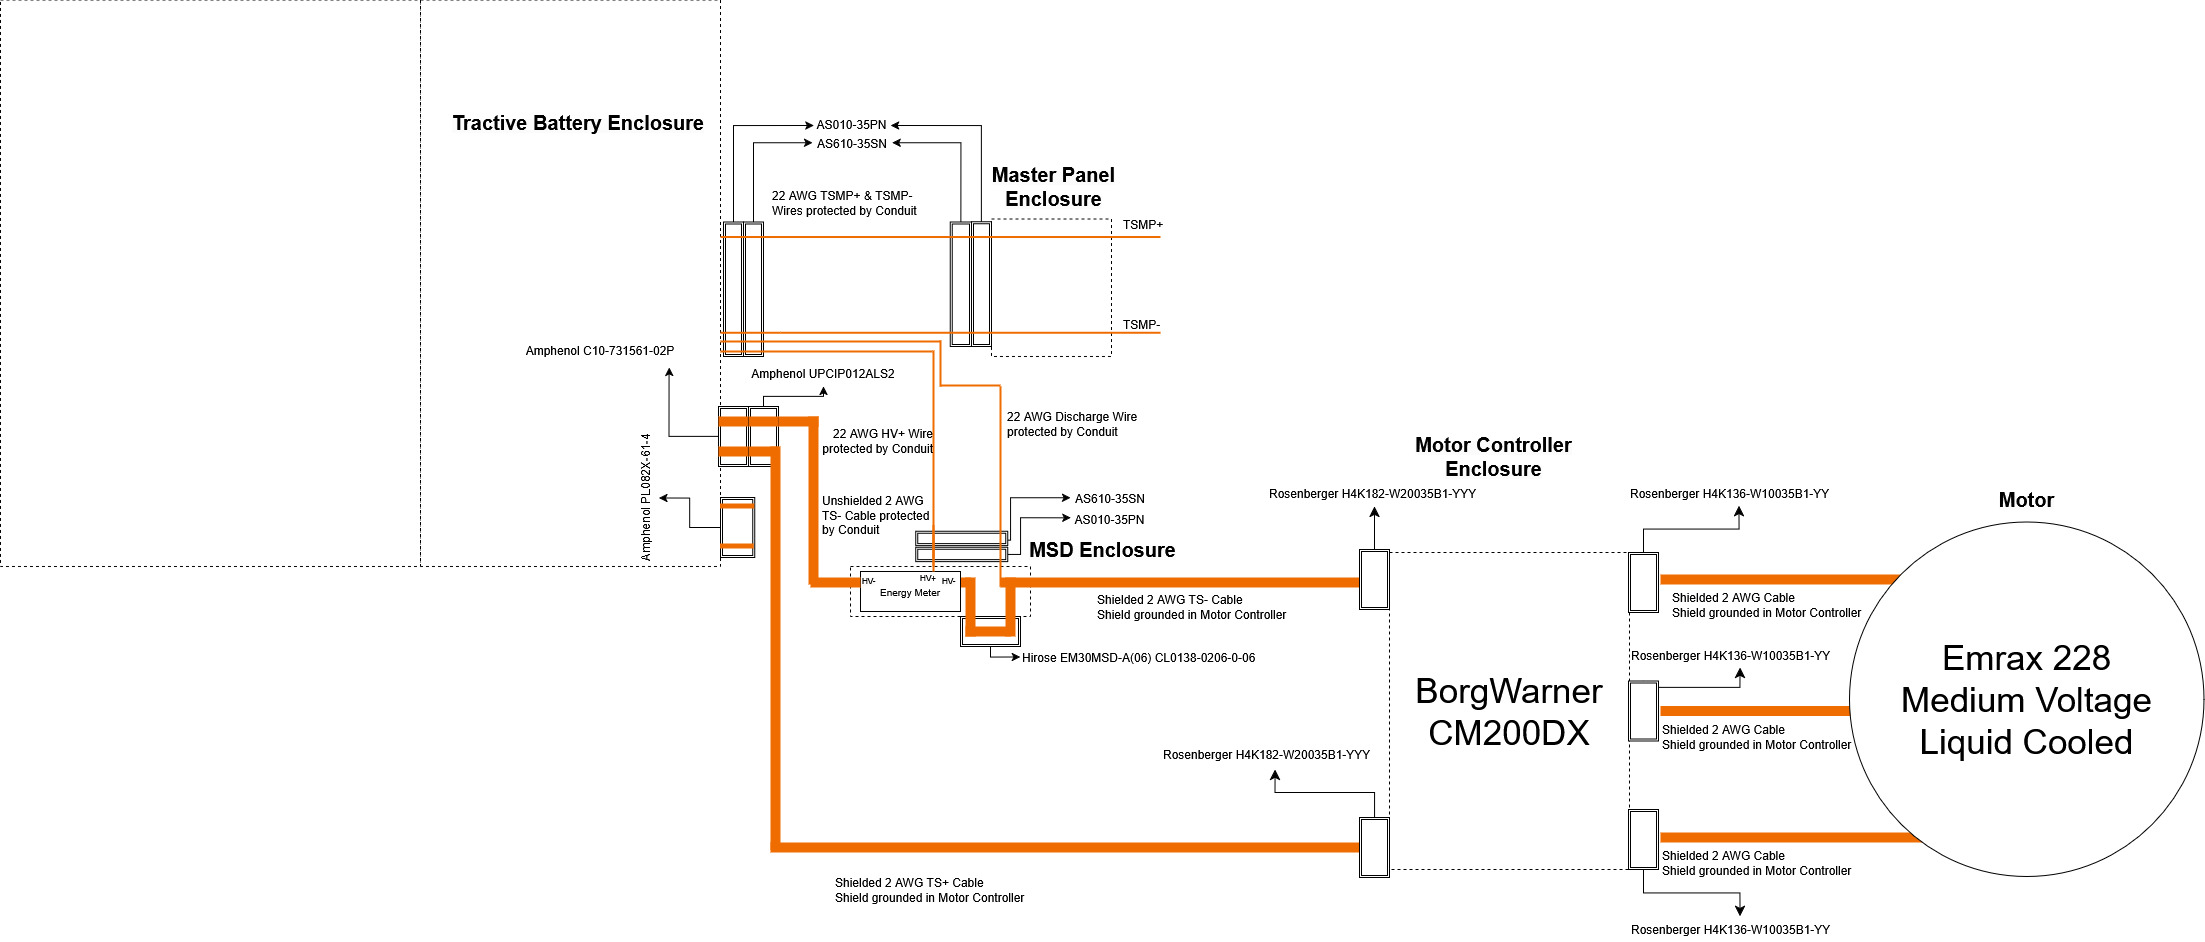
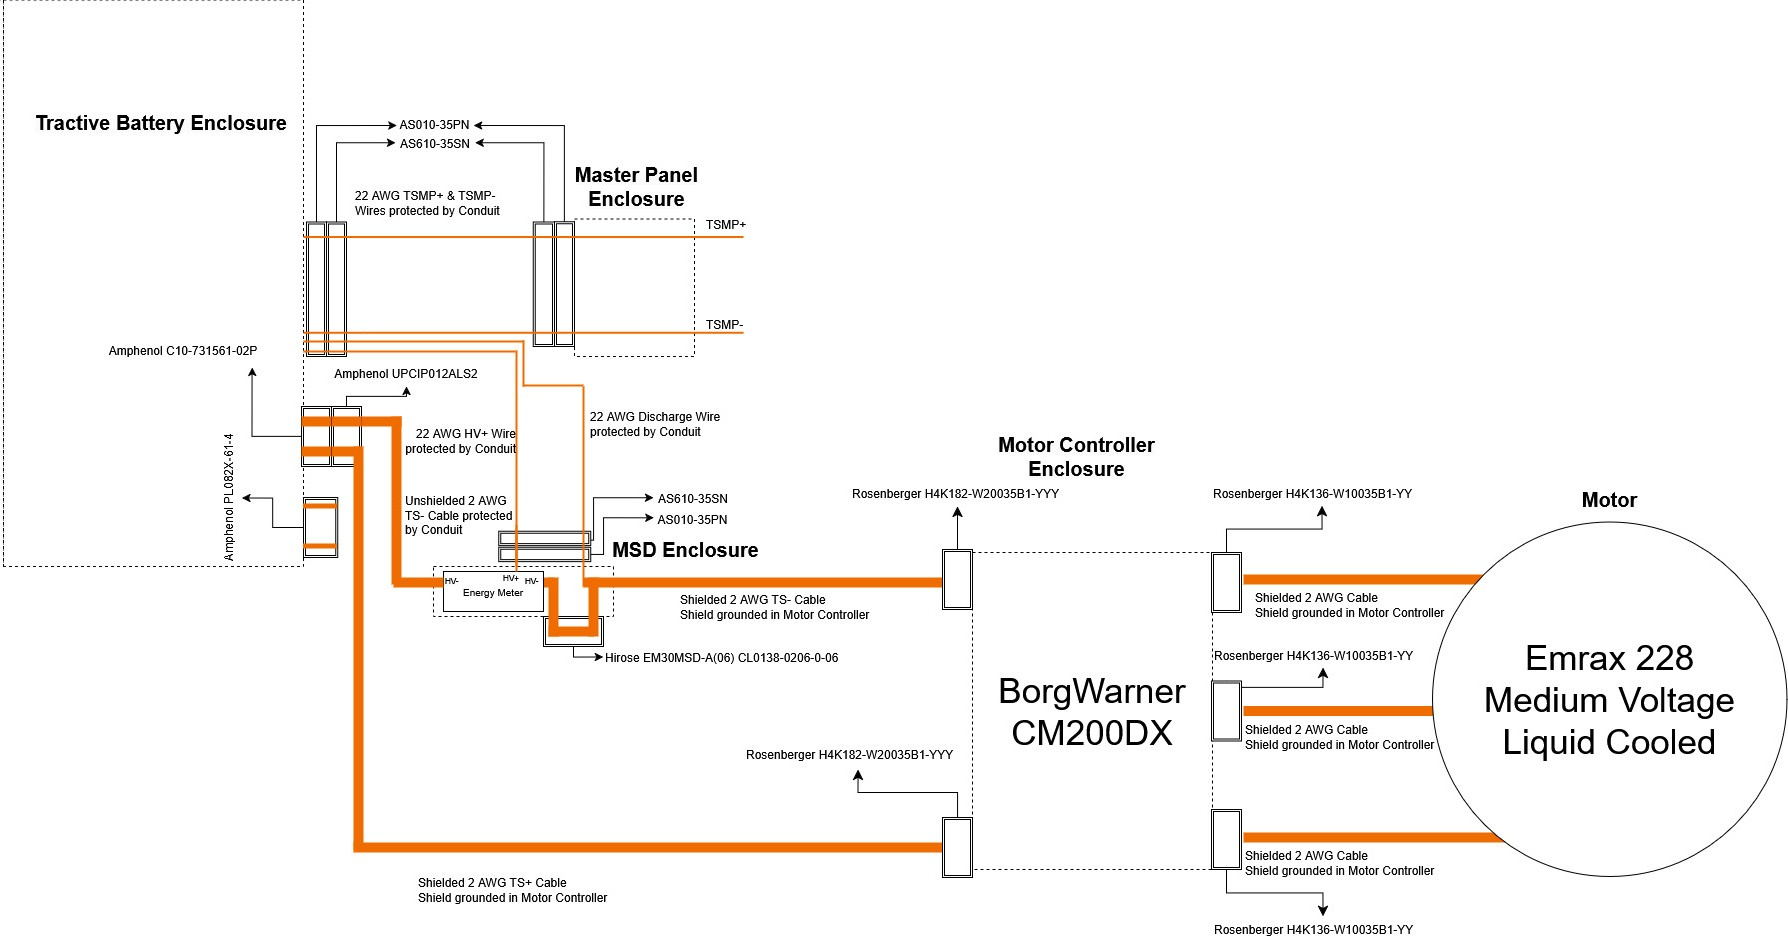
Completed 'Context of Problem'

diff --git a/objective-and-scope.md b/objective-and-scope.md
@@ -13,12 +13,12 @@ To achieve the team goal, High Voltage (HV) department's goal is as following:
 
 The testbed for CM200DX called, <i>R25Evo</i>, as modifications have been made to R25E to integrate CM200DX into R25E powertrain architecture.  
 
-Detailed explanation of changing motor controller from BAMOCAR D3 400-400 to CM200DX will be explained in the next section, <i>Context of Problem</i>.
+Detailed explanation of changing motor controller from <b>BAMOCAR D3 400-400</b> to <b>CM200DX</b> will be explained in the next section, <i>Context of Problem</i>.
 </p>
 
 ## Timeline
 <p style='text-align: justify'>
-Introducing a new motor controller to an existing HV architecture is a tremendous challenge, which requires thorough planning and execution months before R26E design phase.
+Introducing a new motor controller to an existing HV architecture is a tremendous technical challenge, which requires thorough planning and execution months before R26E design phase.
 </p>  
 
 <center><img src='./Figures/Timeline.png'></center>  
@@ -26,17 +26,16 @@ Introducing a new motor controller to an existing HV architecture is a tremendou
 
 ---
 
-<p style='text-align: justify'>
-For HV System Design and Optimization, emphasis is on the following tasks:</p>
+For HV System Design and Optimization, emphasis is on the following tasks:
 1. Finalise EE shelf, PCBs for R25Evo & R26E, wires for R25Evo
 2. R25Evo testbench
 3. R25Evo test run  
 
 ### Finalise EE shelf, PCBs for R25Evo & R26E, wires for R25Evo
 <p style='text-align: justify'>
-Changes were identified for R25E powertrain architecture to accommodate CM200DX and to ensure 2026 season rule compliancy. Based on the changes identified, new PCBs need to be designed, prototyped and tested.  
+Changes were identified for R25E powertrain architecture to accommodate <b>CM200DX</b> and to ensure 2026 season rule compliancy. Based on the changes identified, new PCBs need to be designed, prototyped and tested.  
 
-No changes were required for HV PCBs prior to R25Evo test run as they were CM200DX compatible and 2026 season rule compliant.
+No changes were required for HV PCBs prior to R25Evo test run as they were <b>CM200DX</b> compatible and 2026 season rule compliant.
 </p>
 
 ### R25Evo testbench
@@ -50,15 +49,15 @@ R25Evo testbench was designed to validate compatibility and functionality of exi
 ---
 
 <p style='text-align: justify'>
-The testbench was set up as shown in _Figure 3_, which represents the entire powertrain architecture in R25E.  
+The testbench was set up as shown in <i>Figure 3</i>, which represents the entire powertrain architecture in R25E.</p>  
 
-Using the testbench, following HV functionalities of R25Evo were be tested:</p>
+Using the testbench, following HV functionalities of R25Evo were be tested:
 - Precharge Sequence
 - Closing TS Circuit
 - Discharge Sequence
 
 <p style='text-align: justify'>
-HV PCBs involved in the above functionalities were installed in Tractive Battery enclosure as shown in _Figure 4_ below.
+HV PCBs responsible for the above functionalities were installed in Tractive Battery enclosure as shown in <i>Figure 4</i> below.
 </p>  
 
 <center><img src='./Figures/R25E Tractive Battery Internals.jpg'></center>  
@@ -67,12 +66,12 @@ HV PCBs involved in the above functionalities were installed in Tractive Battery
 ---
 
 <p style='text-align: justify'>
-HV PCBs involved are: Precharge-Discharge PCB (blue), Tractive Battery PDM PCB (orange) and HV Distribution PCB (green), as shown in _Figure 4_.
+HV PCBs are: Precharge-Discharge PCB (blue), Tractive Battery PDM PCB (orange) and HV Distribution PCB (green), as shown in <i>Figure 4</i>.
 </p>
 
 ### R25Evo test run
 <p style='text-align: justify'>
-After validating powertrain functionalities with CM200DX on the testbench, test runs were conducted to determine whether HV system functions as designed when R25Evo is running with CM200DX and to finalise HV system design for R26E based on results gathered from the test runs.
+After validating powertrain functionalities with <b>CM200DX</b> on the testbench, test runs were conducted to determine whether HV system functions as designed when R25Evo is running with <b>CM200DX</b> and to finalise HV system design for R26E based on results gathered from the test runs.
 </p>
 
 ## Scope

diff --git a/context-of-problem.md b/context-of-problem.md
@@ -1,16 +1,52 @@
 # Context of Problem
 
-Based on R25E's performance in Formula SAE EV 2025, the team identified that motor controller (BAMOCAR D3 400-400) is performance limited.
+<p style='text-align: justify'>
+Based on R25E's performance in Formula SAE EV 2025, the team identified that motor controller (<b>BAMOCAR D3 400-400</b>) is performance limited.
+</p>
 
-## Current Limited
-The motor the team is using, EMRAX 228 MV, is rated for a maximum output of 340A, while BAMOCAR is rated for a maximum output of 220A only.
+## Overview of Tractive System
+<center><img src='./Figures/26 Vehicle TS Schematic.jpg'></center>
+<center><i>Figure 5: R26E Tractive System</i></center>  
 
-_R25e competition accel data_
+<p style='text-align: justify'>
+As mentioned in the previous section, major HV components affected when <b>CM200DX</b> is integrated to R26E Tractive System are within the Tractive Battery Enclosure, as shown in <i>Figure 5</i> above.
+</p>
+
+## BAMOCAR Performance
+### Current Limited
+<p style='text-align: justify'>The team analysed <b>BAMOCAR</b>'s competition accleration performance based on the data extracted using <b>Energy Meter</b> and discovered as under:</p>  
+
+<center><img src='./Figures/R25E Competition Acceleration Data.png'></center>  
+<center><i>Figure 6: R25E Competition Acceleration Data</i></center>  
+
+#### Key Parameters
+To aid understanding of <i>Figure 6</i>, the following relationships are introduced:
+- Tractive Voltage ∝ Speed
+- Tractive Current ∝ Torque
+
+#### Initial Pickup (Red)
+- Torque Command: 100%
+- Peak Current: 234.6A
+- Peak Power: 66.32 kW
+
+#### Wheel Slippage (Orange)
+- Current drops due to wheel slip
+- Current plateau @ 100% torque command
+
+#### Reaching Maximum Speed (Green)
+- Current rises as tyres regain traction
+- Current Ramp Rate: 0.39A/ms
+- **Acceleration Time: 4.271s**  
+
+### Findings  
+<p style='text-align: justify'>
+After analysing the data, the team has concluded that there is a potential to reach <b>maximum possible current earlier</b> to achieve <b>higher top speed</b> as the car crosses the finish line due to the following reason: tractive voltage can increase up to maximum of 330V before crossing the finish line if tractive current peaks earlier after tyres regain traction. This is backed up by <u>lower than expected</u> peak power of 66.32kW (rule limit: 80kW, R25E limit: 72.6kW) and tractive voltage <u>continuing to increase</u> after tractive current peaks in the section highlighted in green.
+</p>
 
 ## Transition to CM200DX
-Due to the limited current ramp rate of Bamocar, the team has decided to use CM200DX motor controller for R26e.  
-
-_show Cascadia Software Manual_
+<p style='text-align: justify'>
+Due to the limited current ramp rate of <b>BAMOCAR</b> and potential to accelerate faster, the team has decided to use <b>CM200DX</b> for R26E. For more detailed justification on switching to <b>CM200DX</b>, please refer to <a href='#'>FTS 435 Cascadia System Integration (HV & LV)</a>.
+</p>  
 
 ---
 
